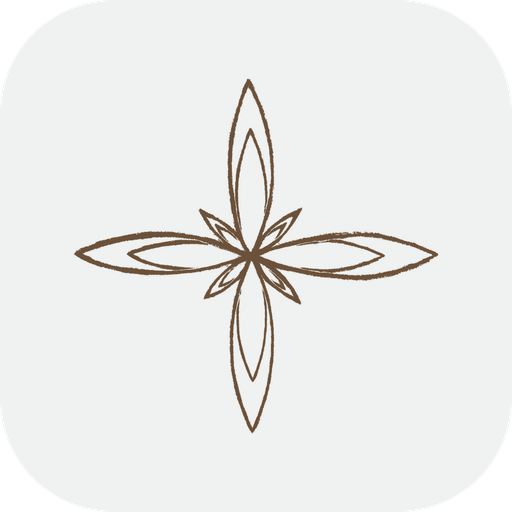
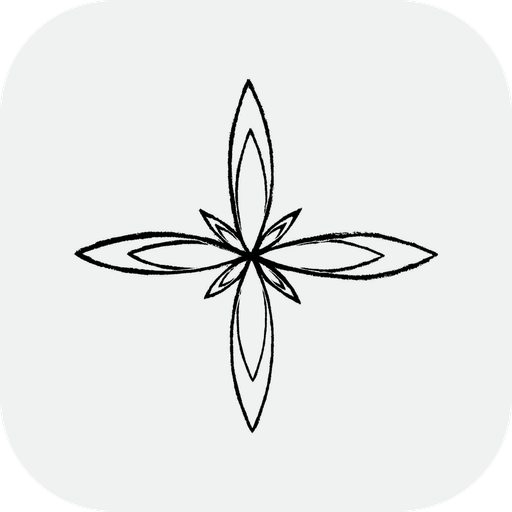
Updates

Changed region(s): [[0.1562, 0.1562, 0.7812, 0.8438], [0.7812, 0.4688, 0.8438, 0.5312]]

diff --git a/index.html b/index.html
@@ -6,7 +6,7 @@
     <meta name="description" content="a gesamtkunstwerk founded in 2023 by artist &amp; curator aloisius — an independent record label, a series of happenings and a multidisciplinary collective." />
     <link rel="canonical" href="https://w3by0g1.github.io/life-is-beautiful/" />
 
-    <!-- The tab icon (the flower, in the text's brown on paper) and the
+    <!-- The tab icon (the flower, in black on paper) and the
          home-screen icons. -->
     <link rel="icon" href="./favicon.ico" sizes="48x48" />
     <link rel="icon" type="image/png" sizes="32x32" href="./favicon-32.png" />
